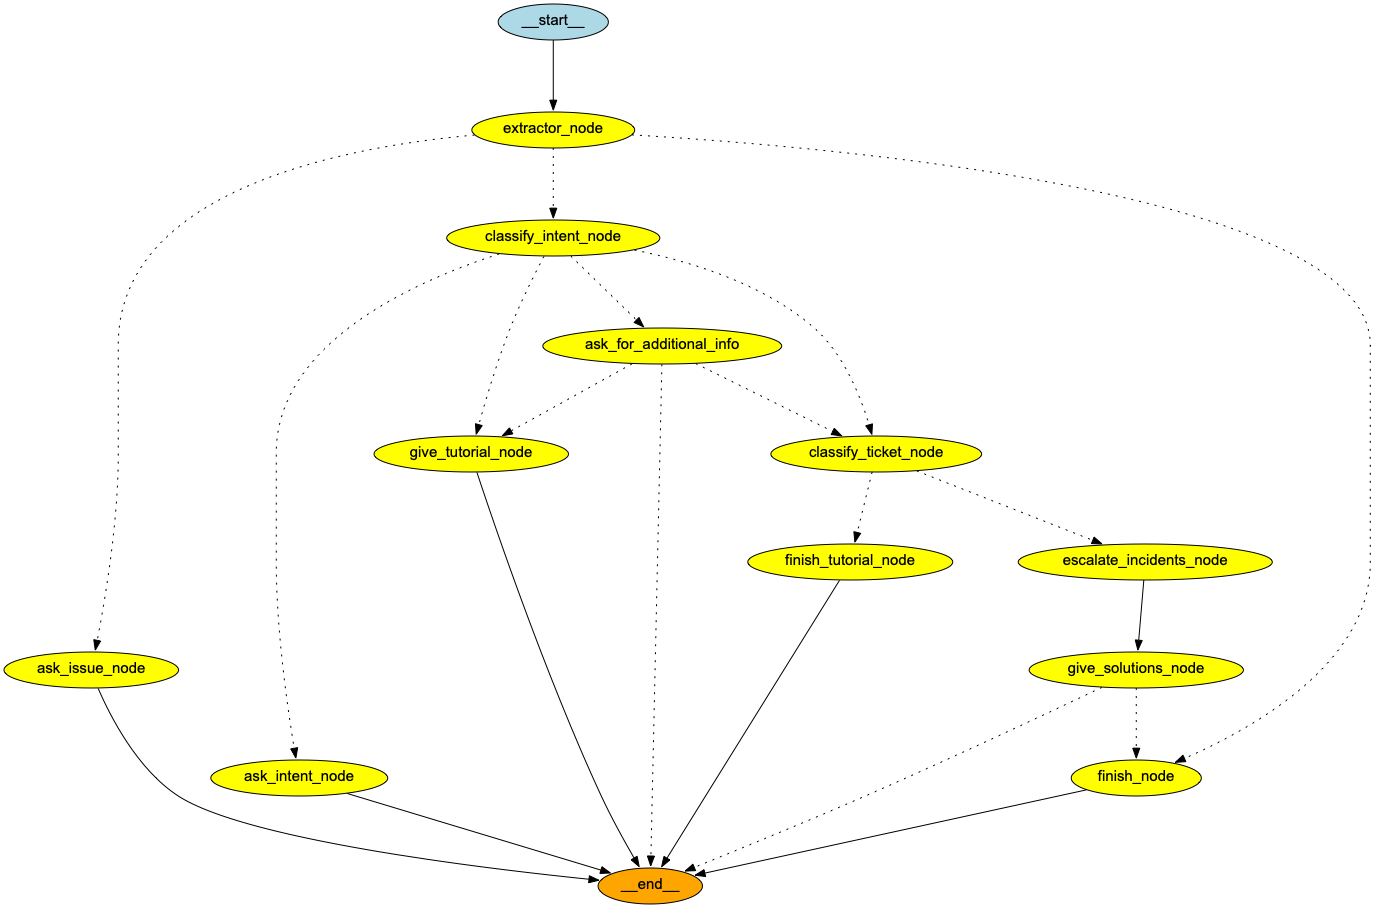
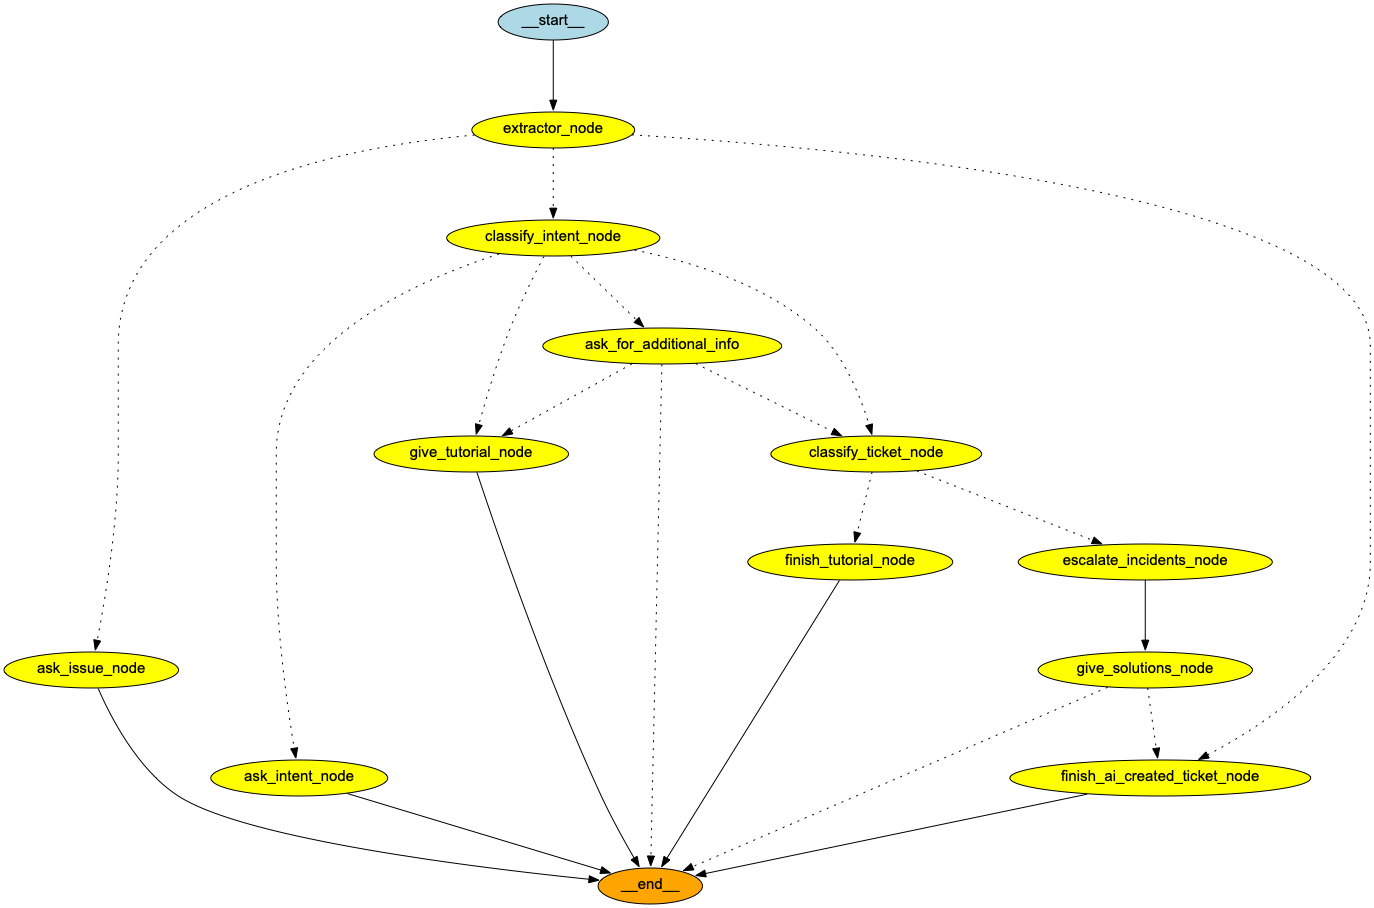
Clean up conversation finishing in the graph

diff --git a/backend/graph/nodes.py b/backend/graph/nodes.py
@@ -153,6 +153,8 @@ def classify_intent(state: ChatbotState):
 
     # 1)
     user_messages = [msg.content for msg in state["messages"] if isinstance(msg, HumanMessage)]
+    ai_messages = [msg.content for msg in state["messages"] if isinstance(msg, AIMessage)]
+    last_bot_message = ai_messages[-1][-400:] if ai_messages else "(keine)"
     conversation = "\n".join(f"- {m}" for m in user_messages) if user_messages else "(keine)"
     previous_intent = state.get("intent") or "(noch keiner)"
 
@@ -179,7 +181,15 @@ REGELN FUER DEN WECHSEL:
   dass der Support uebernimmt (z. B. "erstell mir ein Ticket", "leite es bitte an
   einen Mitarbeiter weiter", "ich will mit einem Menschen sprechen").
 - Eine reine Zwischenantwort (E-Mail-Adresse, Ja/Nein, Detailangabe) ist KEIN Wechsel.
+- AUSNAHME: Endet die LETZTE BOT-NACHRICHT mit der Frage, ob das Problem
+  geloest ist, und antwortet der Nutzer darauf zustimmend (z. B. "Ja", "jo",
+  "passt", "danke"), dann waehle "solved".
+- Ein zustimmendes "Ja" auf eine ANDERE Rueckfrage (z. B. nach Geraet,
+  Standort oder Betriebssystem) bleibt eine Zwischenantwort und ist KEIN Wechsel.
 - Entscheide nach der Hauptabsicht, nicht nach einzelnen Schluesselwoertern.
+
+LETZTE BOT-NACHRICHT (Ende):
+{last_bot_message}
 
 CHATVERLAUF (User-Nachrichten):
 {conversation}""")
@@ -406,6 +416,21 @@ def ask_for_issue(state: ChatbotState):
     """
     log_node_entry("ask_for_issue", state)
     attempts = state.get("ask_issue_attempts", 0) + 1
+
+    if attempts >= 3:
+        final_message = (
+            "Ich kann dein Anliegen leider nicht weiter als ZIM-IT-Support bearbeiten, "
+            "da keine eindeutige IT-/ZIM-bezogene Problemstellung erkannt wurde.\n\n"
+            "Falls du später ein IT-Problem rund um Dienste der Universität hast "
+            "(z. B. WLAN, VPN, E-Mail, Moodle oder Account-Probleme), helfe ich dir gerne weiter."
+        )
+        return {
+            **visit("ask_issue_node"),
+            "messages": [AIMessage(content=final_message)],
+            "ask_issue_attempts": attempts,
+            "is_complete": True
+        }
+
     metadata_context = _build_metadata_context(state)
     system_prompt = SystemMessage(content=(
         AGENT_PROMPT + metadata_context + "\n\n" +
@@ -416,19 +441,12 @@ def ask_for_issue(state: ChatbotState):
     full_messages = [system_prompt] + state["messages"]
     response = llm.invoke(full_messages)
 
-    if attempts >= 3:
-        return {
-            **visit("ask_issue_node"),
-            "messages": [response],
-            "ask_issue_attempts": attempts,
-            "is_complete": True
-        }
-
     return {
         **visit("ask_issue_node"),
         "messages": [response],
         "ask_issue_attempts": attempts
     }
+
 
 @traceable
 def ask_for_additional_info(state: ChatbotState):
@@ -731,12 +749,12 @@ def give_solutions(state: ChatbotState):
     }
 
 @traceable
-def finish_ticket(state):
+def finish_ai_created_ticket(state):
     """
     Finalizes the ticket creation process by generating a concise title
     and preparing the payload for the Zammad API.
     """
-    log_node_entry("finish_ticket", state)
+    log_node_entry("finish_ai_created_ticket", state)
     # If the issue was asked three times, and no problem could be extracted,
     # say instead that the off-topic issue cannot be processed by support
     attempts = state.get("ask_issue_attempts", 0)
@@ -748,7 +766,7 @@ def finish_ticket(state):
             "(z. B. WLAN, VPN, E-Mail, Moodle oder Account-Probleme), helfe ich dir gerne weiter."
         )
         return {
-            **visit("finish_node"),
+            **visit("finish_ai_created_ticket_node"),
             "messages": [AIMessage(content=final_message)],
             "is_complete": True
         }
@@ -771,7 +789,7 @@ def finish_ticket(state):
         langgraph_logger.info(f"give_solution node: Could not append message to ticket.\nError: {e}")
 
     return {
-        **visit("finish_node"),
+        **visit("finish_ai_created_ticket_node"),
         **result,
         "category": category
         }

diff --git a/frontend/ui/chat.py b/frontend/ui/chat.py
@@ -33,6 +33,7 @@ INITIAL_STATES = {
     "intent": "",
     "tutorial_attempts": 0,
     "graph_runs": 0,
+    "is_complete": False,
     # ── Q&A widget state (frontend-only, never sent to the backend) ──────────
     "pending_questions": [],   # list of {text: str, options: list[str] | None}
     "current_question_idx": 0,
@@ -378,6 +379,8 @@ def apply_response_to_session(user_input: str, res_json: dict) -> None:
     st.session_state.intent = res_json.get("intent", "")
     st.session_state.tutorial_attempts = res_json.get("tutorial_attempts", 0)
     st.session_state.graph_runs = res_json.get("graph_runs", 0)
+    st.session_state.is_complete = res_json.get("is_complete", False)
+    
     
     if "ticket_id" in res_json:
         st.session_state.ticket_id = res_json.get("ticket_id")
@@ -441,6 +444,7 @@ def process_solution_feedback(
     # For "Yes" response, parse the JSON response
     res_json = client.send_feedback(payload)
     message["solutions"] = []
+    st.session_state.is_complete = True
     return res_json.get("bot_response", "")
 
 
@@ -757,10 +761,13 @@ def run_app(client: ChatClient, *, mock_mode: bool = False) -> None:
             or not are_form_fields_valid()
             or has_pending_solutions
             or st.session_state.pending_ticket_confirmation is not None
+            or st.session_state.is_complete
         )
         if user_input := st.chat_input(
             placeholder=(
-                "Bitte E-Mail-Adresse und Matrikelnummer eingeben"
+                "Das Gespräch ist abgeschlossen — bitte über 'Neu starten' ein neues Anliegen beginnen."
+                if st.session_state.is_complete
+                else "Bitte E-Mail-Adresse und Matrikelnummer eingeben"
                 if not are_form_fields_valid()
                 else "Beschreibe dein Anliegen..."
             ),

diff --git a/backend/graph/orchestrator.py b/backend/graph/orchestrator.py
@@ -14,7 +14,7 @@ from .nodes import (
     classify_ticket,
     escalate_incidents,
     give_solutions,
-    finish_ticket,
+    finish_ai_created_ticket,
     classify_intent,
     ask_intent,
     give_tutorial,
@@ -115,7 +115,7 @@ workflow.add_node("ask_for_additional_info", ask_for_additional_info)
 workflow.add_node("classify_ticket_node", classify_ticket)
 workflow.add_node("escalate_incidents_node", escalate_incidents)
 workflow.add_node("give_solutions_node", give_solutions)
-workflow.add_node("finish_node", finish_ticket)
+workflow.add_node("finish_ai_created_ticket_node", finish_ai_created_ticket)
 workflow.add_node("classify_intent_node", classify_intent)
 workflow.add_node("ask_intent_node", ask_intent)
 workflow.add_node("give_tutorial_node", give_tutorial)
@@ -139,7 +139,7 @@ workflow.add_conditional_edges(
     source="extractor_node",
     path=route_based_on_state,
     path_map=build_pathmap_from_nodes_list_for_visualisation(
-        ["ask_issue_node", "finish_node", "classify_intent_node"]
+        ["ask_issue_node", "finish_ai_created_ticket_node", "classify_intent_node"]
     )
 )
 
@@ -168,14 +168,14 @@ workflow.add_conditional_edges(
     source="give_solutions_node",
     path=route_after_solutions,
     path_map=build_pathmap_from_nodes_list_for_visualisation(
-        ["finish_node", "__end__"]
+        ["finish_ai_created_ticket_node", "__end__"]
     )
 )
 
 
 # End the workflow after the information collection nodes.
 workflow.add_edge("ask_issue_node", END)
-workflow.add_edge("finish_node", END)
+workflow.add_edge("finish_ai_created_ticket_node", END)
 workflow.add_edge("ask_intent_node", END)
 workflow.add_edge("give_tutorial_node", END)
 workflow.add_edge("finish_tutorial_node", END)

diff --git a/tests/test_ticket_category.py b/tests/test_ticket_category.py
@@ -30,7 +30,7 @@ from backend.graph.nodes import (
     classify_ticket,
     classify_ticket_category,
     extract_information,
-    finish_ticket,
+    finish_ai_created_ticket,
     _resolve_ticket_category,
 )
 
@@ -147,7 +147,7 @@ class ExtractInformationTests(unittest.TestCase):
 
 
 class ClassifyTicketNodeTests(unittest.TestCase):
-    """Unit tests for classify_ticket workflow node and finish_ticket reuse."""
+    """Unit tests for classify_ticket workflow node and finish_ai_created_ticket reuse."""
 
     @patch("backend.graph.nodes.classify_ticket_category")
     def test_classify_ticket_node_sets_category(self, mock_classify):
@@ -177,7 +177,7 @@ class ClassifyTicketNodeTests(unittest.TestCase):
 
     @patch("backend.graph.nodes.classify_ticket_category")
     @patch("backend.graph.nodes.ticket_service.create_support_ticket")
-    def test_finish_ticket_reuses_category_without_reclassifying(
+    def test_finish_ai_created_ticket_reuses_category_without_reclassifying(
         self,
         mock_create_ticket,
         mock_classify,
@@ -187,7 +187,7 @@ class ClassifyTicketNodeTests(unittest.TestCase):
             "is_complete": True,
         }
 
-        result = finish_ticket({
+        result = finish_ai_created_ticket({
             "messages": [HumanMessage(content="WLAN geht nicht")],
             "user_email": "user@mail.com",
             "matrikelnummer": "1234567",

diff --git a/backend/graph/routing.py b/backend/graph/routing.py
@@ -15,7 +15,7 @@ def route_based_on_state(state: ChatbotState):
     if not state.get("issue_description"):
         print(f"[DEBUG]: Attempts for ask_for_issue node: {state.get('ask_issue_attempts')}")
         if state.get("ask_issue_attempts", 0) >= 3:
-            return "finish_node"
+            return "finish_ai_created_ticket_node"
         else:
             return "ask_issue_node"
 
@@ -76,11 +76,11 @@ def route_after_solutions(state: ChatbotState):
     """
     if state.get("solutions"):
         if state.get("is_complete"):
-            return "finish_node"
+            return "finish_ai_created_ticket_node"
         else:
             return END
     else:
-        return "finish_node"
+        return "finish_ai_created_ticket_node"
 
 def route_after_classification(state: ChatbotState):
     """

diff --git a/backend/graph/README.md b/backend/graph/README.md
@@ -89,7 +89,7 @@ graph TD
     classify_ticket_node[classify_ticket_node <br> classify_ticket]
     escalate_incidents_node[escalate_incidents_node <br> escalate_incidents]
     give_solutions_node[give_solutions_node <br> give_solutions]
-    finish_node[finish_node <br> finish_ticket]
+    finish_ai_created_ticket_node[finish_node <br> finish_ai_created_ticket]
 
     %% --- ROUTER (CONDITIONAL EDGES) ---
     route_based_on_state{route_based_on_state}
@@ -103,7 +103,7 @@ graph TD
 
     %% --- Router nach Extraktion (E-Mail kommt aus der Login-Session, kein ask_email_node mehr) ---
     extractor_node --> route_based_on_state
-    route_based_on_state -->|not issue & attempts >= 3| finish_node
+    route_based_on_state -->|not issue & attempts >= 3| finish_ai_created_ticket
     route_based_on_state -->|not issue & attempts < 3| ask_issue_node
     route_based_on_state -->|else| classify_intent_node
 
@@ -129,16 +129,16 @@ graph TD
     %% --- Problem-Pfad ---
     escalate_incidents_node --> give_solutions_node
     give_solutions_node --> route_after_solutions
-    route_after_solutions -->|solutions & is_complete| finish_node
+    route_after_solutions -->|solutions & is_complete| finish_ai_created_ticket
     route_after_solutions -->|solutions & not is_complete| End
-    route_after_solutions -->|not solutions| finish_node
+    route_after_solutions -->|not solutions| finish_ai_created_ticket
 
     %% --- Enden (unbedingte Kanten zu END) ---
     ask_issue_node --> End
     ask_intent_node --> End
     give_tutorial_node --> End
     finish_tutorial_node --> End
-    finish_node --> End
+    finish_ai_created_ticket --> End
 
     %% --- STYLING ---
     style Start fill:#dcedc8,stroke:#689f38
@@ -153,7 +153,7 @@ graph TD
     style classify_ticket_node fill:#bbdefb,stroke:#1976d2
     style give_solutions_node fill:#bbdefb,stroke:#1976d2
     style escalate_incidents_node fill:#bbdefb,stroke:#1976d2
-    style finish_node fill:#bbdefb,stroke:#1976d2
+    style finish_ai_created_ticket fill:#bbdefb,stroke:#1976d2
 
     style ask_issue_node fill:#ffecb3,stroke:#ff8f00
     style ask_for_additional_info fill:#ffecb3,stroke:#ff8f00
